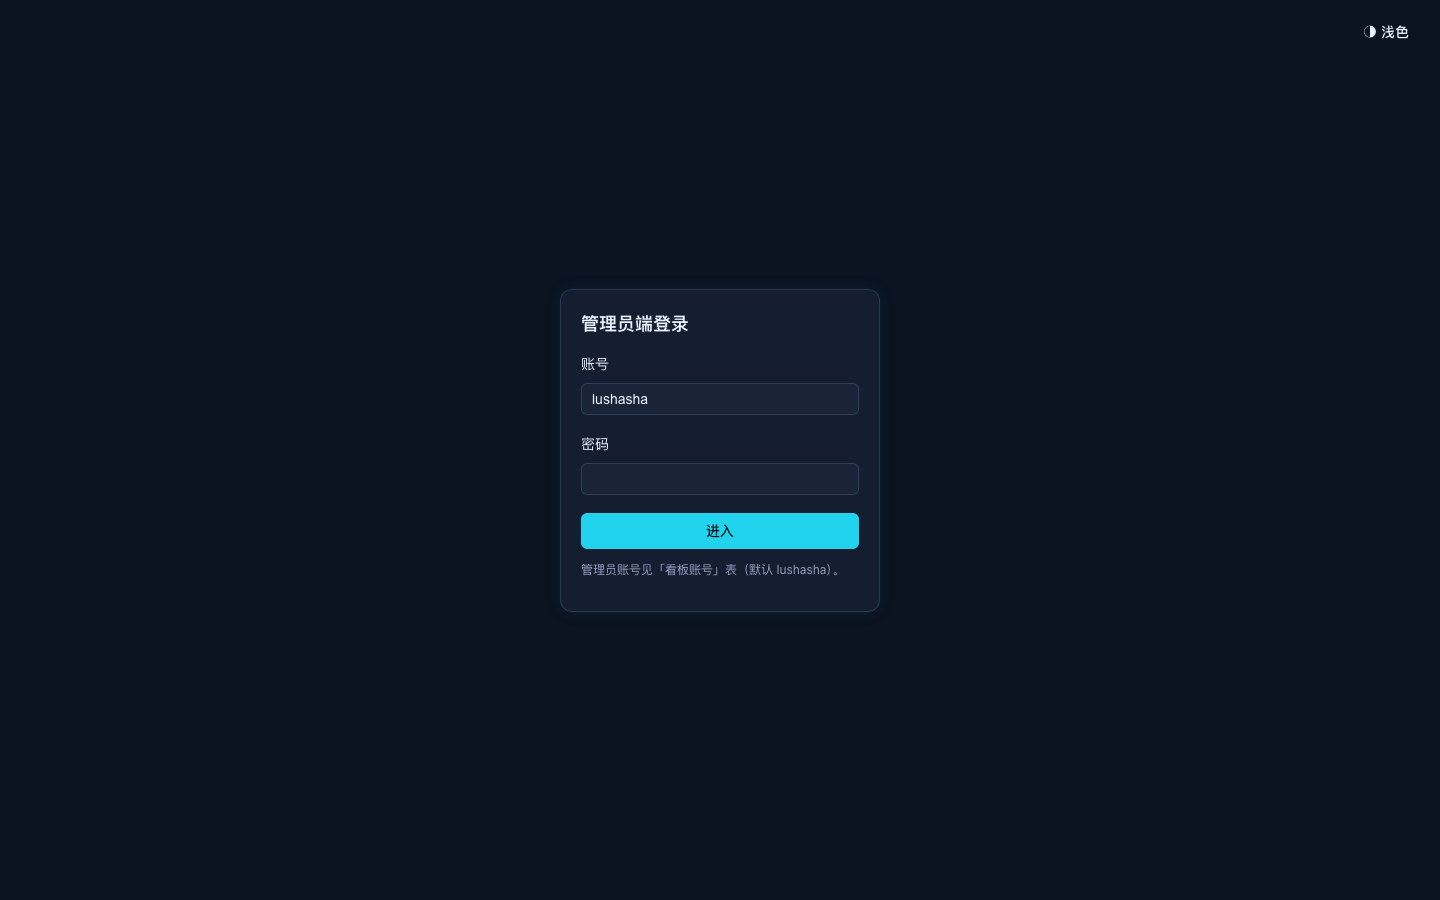
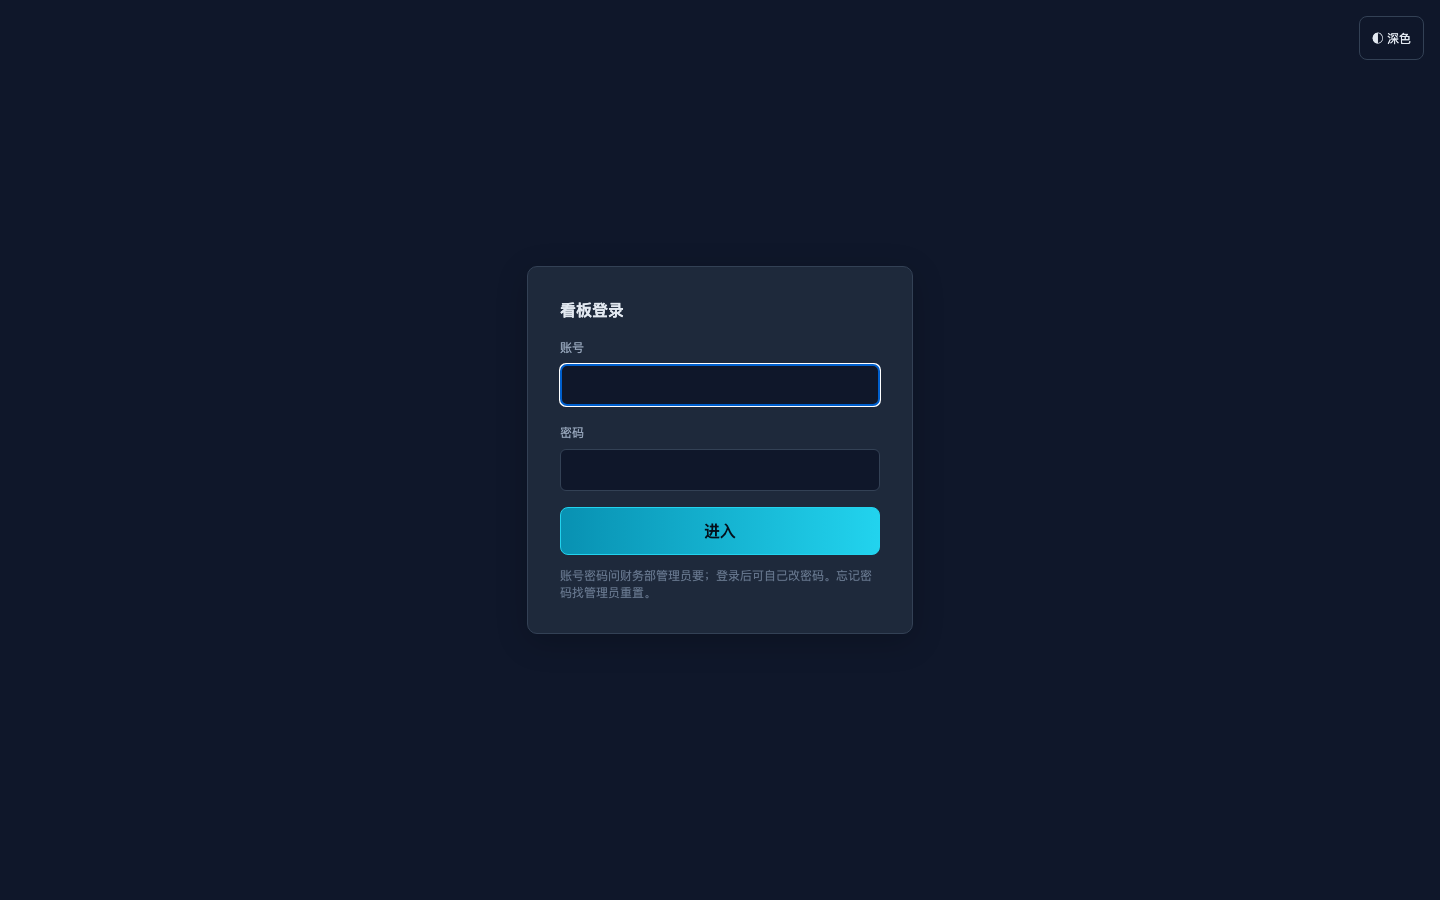
docs(2.6.0): 运维/用户手册与登录截图对齐现网
Runbook/Ubuntu/使用手册/管理端手册/README/softeng 头改为 2.6.0 与 kanban_sid；管理端手册改为统一登录入口；admin_login 截图换为「看板登录」。

Changed region(s): [[0.3438, 0.28, 0.6562, 0.7156], [0.9375, 0.0311, 1.0, 0.0622]]

diff --git a/docs/用户手册/管理端操作手册.md b/docs/用户手册/管理端操作手册.md
@@ -1,20 +1,20 @@
 # 管理端操作手册
 
-> **版本对齐（2026-07-22）**：产品 **v2.2.7**：展示/历史/导出统一 Vue 皮；历史=按日 VM 存档（打开为只读看板）；顶栏导出 HTML；管理端固定深色（无顶栏浅色开关）。
+> **版本对齐（2026-07-25）**：产品 **v2.6.0**：全员**同一登录页**；会话 `kanban_sid`；打开 `/admin` 未登录会跳到统一登录（可带 `?next=/admin`）；登录后管理员自动进后台。展示/历史/导出 Vue 皮；管理端固定深色。
 
 **这篇解决什么问题**：财务同事用管理员账号，完成「更新数据、改手填、归类异常、管账号」等日常操作。
 
-> 截图为合成数据环境（`http://127.0.0.1:8018/admin`），**零真实数据**。见 `docs/用户手册/截图/`。
+> 截图为合成数据环境，**零真实数据**。见 `docs/用户手册/截图/`。登录图=当前「看板登录」统一皮（**不是**旧版「管理员端登录」独立门面）。
 
 ---
 
 ## 1. 进入管理端
 
-1. 浏览器打开 `…/admin`（本机试用：`http://本机:8018/admin`）。
-2. 输入**管理员**账号密码，点 **进入**。
-3. 进入后顶部有：看 / 数据调整 / 异常处理 / 设置。
+1. 浏览器打开**根地址**或 `…/admin`（本机试用：`http://本机:8018/` 或 `…/admin`）。未登录访问 `/admin` 会跳到统一登录页。
+2. 在**同一登录页**输入**管理员**账号密码，点 **进入**（与业务线账号同一入口；**不要**找单独管理员登录网址）。
+3. 登录后自动进入管理后台；顶部有：看 / 数据调整 / 异常处理 / 设置。
 
-![管理端登录](截图/admin_login.png)
+![统一登录（管理员也用这一页）](截图/admin_login.png)
 
 ---
 

diff --git a/docs/Runbook.md b/docs/Runbook.md
@@ -1,15 +1,16 @@
 # Runbook：三张处方卡
 
-## 0. 生产环境实况（2026-07-21 加固后 · 以机上为准）
+## 0. 生产环境实况（2026-07-25 · 以机上 `git rev-parse HEAD` + `VERSION` 为准）
 
 | 项 | 值 |
 |----|----|
 | 部署机 | 公司 Ubuntu 26.04 台式机 `lee-ThinkCentre-M755e-D182`（内网，用户 `lee`） |
 | 代码目录 | `/opt/kanban/看板正式程序`（git 仓库，HEAD=部署时 main） |
-| 版本 | **2.2.0**（`stage66_debtfree`；金额分整数 / 增量重算 / VM 闸 / 抓数护栏） |
-| 进程托管 | **systemd `kanban`**：User=**lee**（与数据目录属主一致，非模板占位 kanban）、enabled+active、Restart=always、StartLimit 5/120s；**沙箱** NoNewPrivileges + PrivateTmp + ProtectSystem=strict + ReadWritePaths（程序树/数据/备份/归档/`/run/user/1000`/`/home/lee`）；app 仅 `127.0.0.1:8018`、`KANBAN_SERVE_STATIC=0` |
+| 版本 | **2.6.0**（`VERSION` 文件；单会话 `kanban_sid` + 旧 cookie 兼容读 21 天；统一 `/login`） |
+| 进程托管 | **systemd `kanban`**：User=**lee**（与数据目录属主一致、非模板占位 kanban）、enabled+active、Restart=always、StartLimit 5/120s；**沙箱** NoNewPrivileges + PrivateTmp + ProtectSystem=strict + ReadWritePaths（程序树/数据/备份/归档/`/run/user/1000`/`/home/lee`）；app 仅 `127.0.0.1:8018`、`KANBAN_SERVE_STATIC=0` |
 | 对外入口 | **nginx** 站点 `kanban`（`:80` default_server）：`frontend/dist` + 反代 API；**`location = /` 必须反代后端**（2.4.3，禁 try_files index 抢根路径）；**server_tokens off**；安全头 nosniff / **`X-Frame-Options: SAMEORIGIN`**（勿 DENY——管理端「看」iframe 嵌 `/`）/ Referrer-Policy |
-| 用户入口口径 | **只发两个根链接**：内网 `http://192.168.30.46`；外网 `http://101.254.102.94:8001`（办公区内勿用外网；用自己账号登录即可） |
+| 用户入口口径 | **只发两个根链接**：内网 `http://192.168.30.46`；外网 `http://101.254.102.94:8001`（办公区内勿用外网；用自己账号登录即可；**无**单独管理员登录 URL） |
+| 会话 | 浏览器 cookie **`kanban_sid`**；兼容窗内可读旧 `kanban_session`/`kanban_view` 并升级；锚点 `数据/session_legacy_compat_since.txt` |
 | 休眠 | `sleep`/`suspend`/`hibernate`/`hybrid-sleep` **target 已 mask**（不会睡死断服） |
 | 每日更新 | **服务内 ScheduleLoop**（09:30 / 12:00 / 17:00 备忘；以机上 `schedule_times` 为准） |
 | 其它 cron | healthcheck 每小时、备份 03:30；`kanban-schedule` 哨兵段**无** `run.py --scheduled` |

diff --git a/README.md b/README.md
@@ -7,8 +7,8 @@
 | **v2.6.0**（以根目录 [`VERSION`](./VERSION) 为准） | Python · SQLite · FastAPI · Vue 3 · ECharts | 公司 Ubuntu · nginx · systemd · 定时刷新 |
 
 > 版本历史见 [`CHANGELOG.md`](./CHANGELOG.md)。业务数据与账号密码**不进本仓库**。  
-> **2.5.0 要点**：**全员同一登录页；会话 cookie=`kanban_sid`（旧 cookie 兼容读 21 天）** `/login`，按账号分流（管理员→后台 / 整体→公司看板 / 业务线→本 BU）；已删除独立「管理员端登录」门面。  
-> **2.4.3**：根地址对 BU 三层加固。**2.4.x 前序**：导出一页化、导出到元、时间选择不裁切。
+> **2.6.0 要点**：**全员同一登录页** `/login`；会话只写 **`kanban_sid`**（HttpOnly + SameSite=Lax）；旧 `kanban_session`/`kanban_view` **兼容读 21 天**并静默升级；登录后按账号分流（管理员→后台 / 整体→公司看板 / 业务线→本 BU）。  
+> **2.5.0**：已删除独立「管理员端登录」门面。**2.4.3**：根地址对 BU 三层加固。
 
 **运维入口速查** → [下方「生产运维」](#生产运维) · 详方 [docs/Runbook.md](docs/Runbook.md)
 

diff --git a/docs/softeng/07_HTTP接口清单_全端点.md b/docs/softeng/07_HTTP接口清单_全端点.md
@@ -1,6 +1,6 @@
 # 07 · HTTP 接口清单（权威 · 从 server.py 数出）
 
-> **产品 v2.2.7**（2026-07-22；`VERSION` 为准）  
+> **产品 v2.6.0**（2026-07-25；以根目录 `VERSION` 为准）  
 > **统计方法**：对 `src/routes/*` + `server.py` 注册路由扫描；另挂载 dist/`/static/*`。  
 > **鉴权**：`_require` / `_user` / `_vacct` / `_can_view_*`；细节以源码为准。  
 > 页面 HTML；`/api/*` JSON。VM 字段闸：`scripts/gen_vm_ts.py --check`。cockpit 字段见 `docs/api-v1-cockpit.md`。
@@ -13,7 +13,7 @@
 | POST | `/login` | 公开 | 账号+密码表单登录 | 看端登录表单 |
 | GET | `/bu/{name}` | 已登录且可看该 BU | BU 独立页 HTML | BU/整体/管理员 |
 | GET | `/admin` | 未登录→管理员登录页；已登录管理员→控制台 | Vue SPA（65 单轨） | 管理员 |
-| POST | `/admin/login` | 公开 | 管理员登录 | 管理端登录表单 |
+| POST | `/admin/login` | 公开 | 兼容旧 form | 2.5.0+ 转发统一鉴权；UI 已统一到 `/login` |
 | GET | `/admin/logout` | 清 cookie | 退出管理端 | 管理端 |
 | GET | `/admin/app.js` | 公开（壳资源） | 410 已下线（65·L1） | 管理端页面 |
 | GET | `/static/*` | 公开 | CSS/JS/壳（看端+管理端） | 浏览器 |

diff --git a/docs/softeng/09_部署架构说明.md b/docs/softeng/09_部署架构说明.md
@@ -1,6 +1,6 @@
 # 09 · 部署架构说明
 
-> 产品 **v2.2.0** · 2026-07-21 · 配图：`docs/设计图/04_部署与运行拓扑图.svg` + `docs/images/deploy.png`  
+> 产品 **v2.6.0** · 2026-07-25 · 配图：`docs/设计图/04_部署与运行拓扑图.svg` + `docs/images/deploy.png`  
 > **主线 Ubuntu**（systemd kanban + nginx:80 + 进程内 ScheduleLoop + cron 体检/备份）；Windows 线已退役。  
 > 版本以仓库根目录 `VERSION` 为准；变更史见 `CHANGELOG.md`。手填重算跳过 std 重建（MADR-0023）。
 
@@ -22,7 +22,7 @@
 | `static/templates/` | 服务端 HTML 碎片（约百份） | `tpl.py` / `render_*.py`；`python run.py` 出单文件 HTML 快照 |
 | `static/css/theme.css` | **主题 CSS 唯一源**（看端/导出同源） | `theme.py`、构建与部分管理端样式引用 |
 | `static/admin/` | 首次部署引导 `bootstrap.html`（65：legacy admin.js 已删，主 UI=Vue） | nginx/FastAPI 静态挂载 |
-| 登录/错误页 HTML | `admin_login.html` / `view_login.html`、错误页模板 | 鉴权与异常页 |
+| 登录/错误页 HTML | `view_login.html`（全员登录）；`admin_login.html` 仅为跳转壳→`/login`；错误页模板 | 鉴权与异常页 |
 
 **与 `frontend/dist` 的关系**：生产看端/管理端主 UI 是 Vue dist；`static/` 补齐模板渲染路径、登录错误页与主题源。新开发勿把 `static/` 当死代码整夹删除——真清理须另立任务并跑全量 `run_verify`。
 

diff --git a/docs/系统教学说明_甲骨易智能经营罗盘_v1.md b/docs/系统教学说明_甲骨易智能经营罗盘_v1.md
@@ -1,6 +1,6 @@
 # 系统教学说明 · 甲骨易智能经营罗盘
 
-> **版本对齐（2026-07-21）**：产品 **v2.2.0**（stage66）：金额分整数、手填增量重算、管理端 Vue 单轨、导出按需 HTML、定位键重复仅体检信息行。
+> **版本对齐（2026-07-25）**：产品 **v2.6.0**（以 `VERSION` 为准）：统一登录、会话 `kanban_sid`、金额分整数、管理端 Vue 单轨。
 
 > **读者**：明昊（财务实习生 + 产品负责人）——懂业务口径、会一点 Python，要系统搞懂这套 Web 工程。  
 > **代码版本**：以 **v1.5.0-beta** 前后端全分离为准（`程序/看板正式程序`，约 commit `b9b3f53`）。  
@@ -359,7 +359,7 @@ flowchart LR
 |----|--------|------------|
 | HTTP | 浏览器与服务器要数据的规矩 | `GET /api/health` |
 | 路由 | URL 路径对应哪个处理函数 | `/bu/游戏` |
-| 会话/cookie | 登录后的通行证 | `kanban_session` |
+| 会话/cookie | 登录后的通行证 | `kanban_sid`（2.6.0；旧名兼容读 21 天） |
 | 序列化 | 把内存对象变成 JSON 文本 | `api_v1.cockpit_payload` |
 | 静态文件 | 不经算账直接下发的 css/js | `/static/admin/admin.css` |
 | 进料口 | 原始文件落地目录 | `数据/项目明细.xlsx` |

diff --git a/docs/Ubuntu部署手册.md b/docs/Ubuntu部署手册.md
@@ -1,6 +1,6 @@
 # 甲骨易智能经营罗盘 · Ubuntu 26.04 从零部署手册
 
-> **版本对齐（2026-07-21）**：产品 **v2.2.0**（stage66）：金额分整数、手填增量重算、管理端 Vue 单轨、导出按需 HTML、定位键重复仅体检信息行。
+> **版本对齐（2026-07-25）**：产品 **v2.6.0**（以根目录 `VERSION` 为准）：统一 `/login`、会话 cookie **`kanban_sid`**（旧 cookie 兼容读 21 天）、金额分整数、管理端 Vue 单轨、nginx 根路径反代（2.4.3）。
 
 > **✅ 已首次上线（2026-07-20，SSH 实核）**：本手册照做已在公司机跑通生产态——`/opt/kanban/看板正式程序` + systemd `kanban` + nginx `kanban`:80 + 三套 cron + 真实数据。**日常运维处方**（挂了怎么办/回滚/更新）看 `Runbook.md` §0，本手册管"从零装"。  
 > **适用**：部署机从 Windows 迁到 **Ubuntu 26.04 LTS**（明昊 2026-07-17 拍板；22.04 旧稿作废）。  

diff --git a/docs/softeng/08_数据库设计_schema全表.md b/docs/softeng/08_数据库设计_schema全表.md
@@ -1,6 +1,6 @@
 # 08 · 数据库设计（对齐 `src/schema.py` · 任务书33 修订）
 
-> **产品 v2.2.0**（2026-07-21）· 唯一 DDL 源：`src/schema.py`  
+> **产品 v2.6.0**（2026-07-25；schema 仍以 `src/schema.py` 为准）· 唯一 DDL 源：`src/schema.py`  
 > **SCHEMA_VERSION = 3**（金额库内 INTEGER **分**；算账路径 Decimal ROUND_HALF_UP，见 MADR-0022）  
 > **统计**：标准表 **5** + 人工/元数据表（含历史表）以 schema 为准。  
 > **库文件**：`数据/看板.db`（gitignore）。无独立 DB 服务。  

diff --git a/docs/用户手册/看板使用手册.md b/docs/用户手册/看板使用手册.md
@@ -1,6 +1,6 @@
 # 看板使用手册
 
-> **版本对齐（2026-07-21）**：产品 **v2.2.0**（stage66）。
+> **版本对齐（2026-07-25）**：产品 **v2.6.0**（统一登录 + 会话 `kanban_sid` + 旧 cookie 兼容 21 天）。
 
 **这篇解决什么问题**：第一次打开「经营看板」时，知道从哪进、每一屏看什么、怎么换时间段。
 